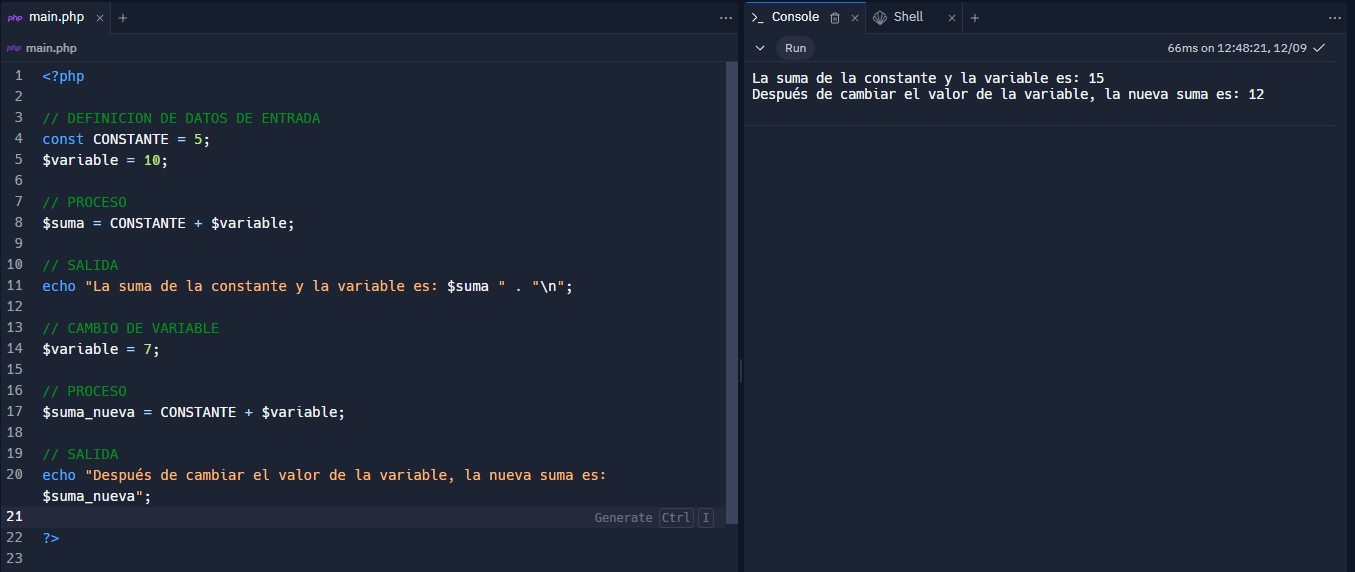
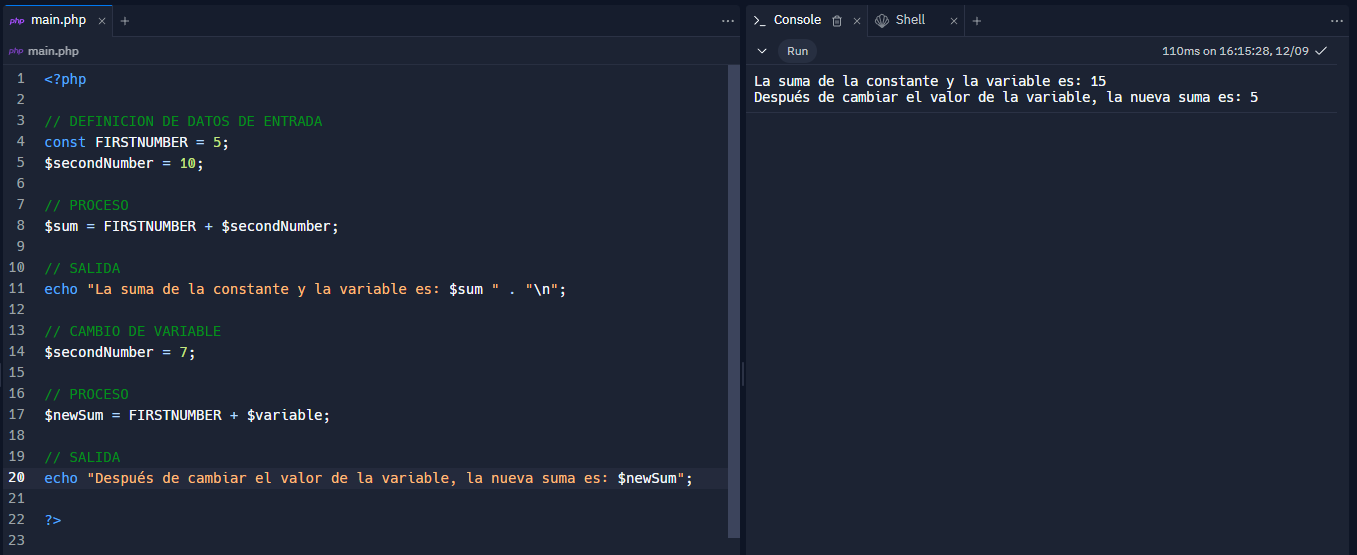
Punto 2 Completado

diff --git a/punto-2/index.php b/punto-2/index.php
@@ -1,22 +1,22 @@
 <?php
 
 // DEFINICION DE DATOS DE ENTRADA
-const CONSTANTE = 5;
-$variable = 10;
+const FIRSTNUMBER = 5;
+$secondNumber = 10;
 
 // PROCESO
-$suma = CONSTANTE + $variable;
+$sum = FIRSTNUMBER + $secondNumber;
 
 // SALIDA
-echo "La suma de la constante y la variable es: $suma " . "\n";
+echo "La suma de la constante y la variable es: $sum " . "\n";
 
 // CAMBIO DE VARIABLE
-$variable = 7;
+$secondNumber = 7;
 
 // PROCESO
-$suma_nueva = CONSTANTE + $variable;
+$newSum = FIRSTNUMBER + $variable;
 
 // SALIDA
-echo "Después de cambiar el valor de la variable, la nueva suma es: $suma_nueva";
+echo "Después de cambiar el valor de la variable, la nueva suma es: $newSum";
 
 ?>
